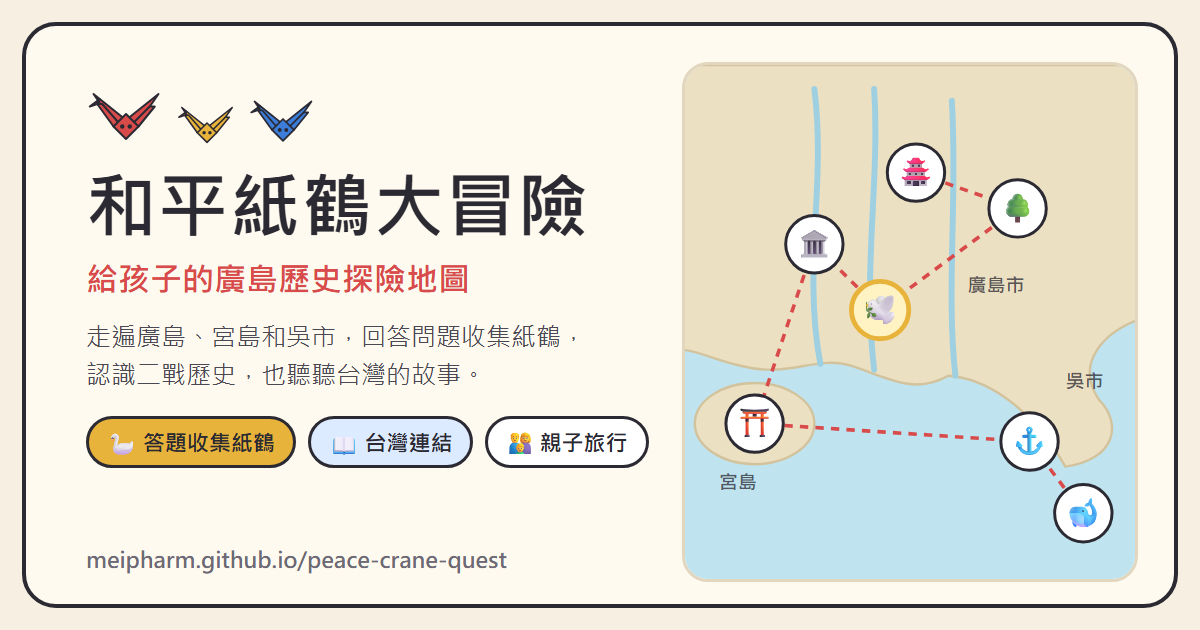
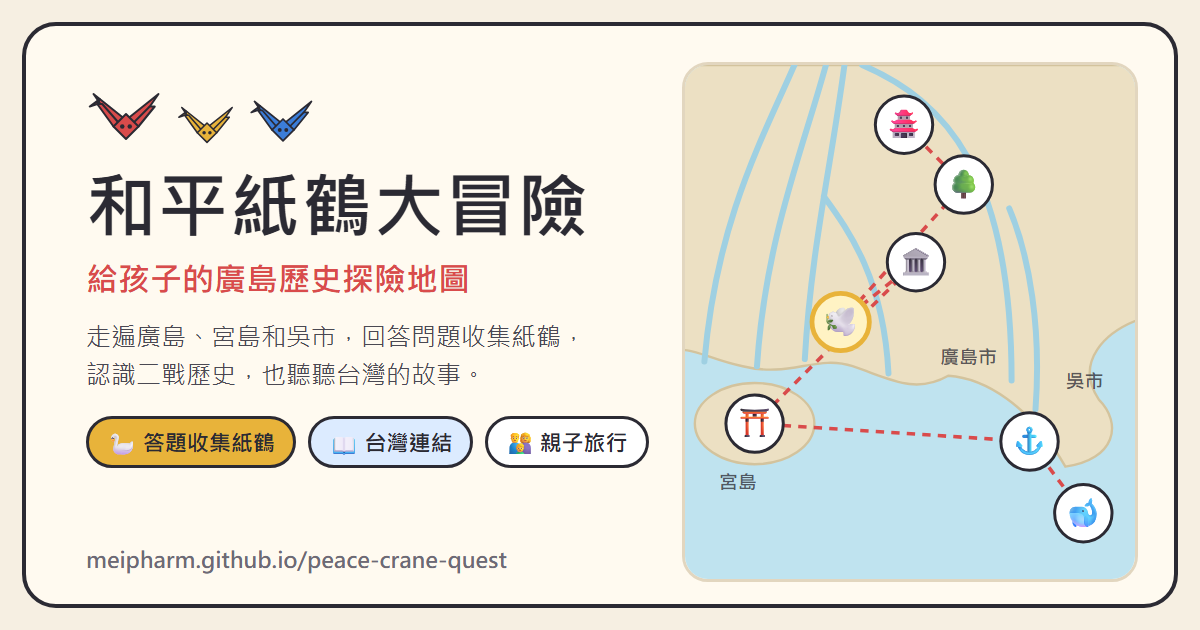
C-011 fix: 分享預覽圖地圖改為六條河，地點位置與網頁地圖一致

Changed region(s): [[0.5858, 0.0905, 0.8942, 0.6333]]

diff --git a/og/og.html b/og/og.html
@@ -58,23 +58,27 @@
     <rect width="400" height="430" fill="#bfe3ef"/>
     <path fill="#ece0c3" stroke="#d3c39d" stroke-width="2" d="M0,0 H400 V210 C360,222 338,250 358,280 C378,300 372,330 330,336 C300,284 262,262 232,260 C204,276 182,262 152,252 C122,242 100,262 60,252 C30,246 12,232 0,242 Z"/>
     <ellipse cx="70" cy="300" rx="50" ry="34" fill="#ece0c3" stroke="#d3c39d" stroke-width="2"/>
-    <path d="M120,20 C130,100 110,170 125,250" fill="none" stroke="#9fd0e2" stroke-width="5" stroke-linecap="round"/>
-    <path d="M170,20 C175,100 160,170 170,255" fill="none" stroke="#9fd0e2" stroke-width="5" stroke-linecap="round"/>
-    <path d="M235,30 C240,110 230,190 238,260" fill="none" stroke="#9fd0e2" stroke-width="5" stroke-linecap="round"/>
+    <!-- 廣島市中心六條河（示意） -->
+    <path d="M120,-40 C90,40 40,110 28,248" fill="none" stroke="#9fd0e2" stroke-width="5" stroke-linecap="round"/>
+    <path d="M140,-40 C120,50 80,130 72,252" fill="none" stroke="#9fd0e2" stroke-width="5" stroke-linecap="round"/>
+    <path d="M150,-40 C140,60 118,140 112,246" fill="none" stroke="#9fd0e2" stroke-width="5" stroke-linecap="round"/>
+    <path d="M128,110 C150,140 178,180 182,258" fill="none" stroke="#9fd0e2" stroke-width="5" stroke-linecap="round"/>
+    <path d="M160,0 C230,30 285,90 285,264" fill="none" stroke="#9fd0e2" stroke-width="5" stroke-linecap="round"/>
+    <path d="M283,120 C300,160 310,220 305,288" fill="none" stroke="#9fd0e2" stroke-width="5" stroke-linecap="round"/>
     <g stroke="#d94b4b" stroke-width="3" stroke-dasharray="7 6" fill="none">
-      <polyline points="205,90 290,120 175,205 120,150 70,300 300,315 345,375"/>
+      <polyline points="195,50 245,100 142,215 205,165 70,300 300,315 345,375"/>
     </g>
     <g font-size="24" text-anchor="middle">
-      <g transform="translate(205,90)"><circle r="24" fill="#fff" stroke="#2b2a33" stroke-width="2.5"/><text y="8">🏯</text></g>
-      <g transform="translate(290,120)"><circle r="24" fill="#fff" stroke="#2b2a33" stroke-width="2.5"/><text y="8">🌳</text></g>
-      <g transform="translate(120,150)"><circle r="24" fill="#fff" stroke="#2b2a33" stroke-width="2.5"/><text y="8">🏛</text></g>
-      <g transform="translate(175,205)"><circle r="24" fill="#fff3c4" stroke="#e8b33a" stroke-width="4"/><text y="8">🕊</text></g>
+      <g transform="translate(195,50)"><circle r="24" fill="#fff" stroke="#2b2a33" stroke-width="2.5"/><text y="8">🏯</text></g>
+      <g transform="translate(245,100)"><circle r="24" fill="#fff" stroke="#2b2a33" stroke-width="2.5"/><text y="8">🌳</text></g>
+      <g transform="translate(205,165)"><circle r="24" fill="#fff" stroke="#2b2a33" stroke-width="2.5"/><text y="8">🏛</text></g>
+      <g transform="translate(142,215)"><circle r="24" fill="#fff3c4" stroke="#e8b33a" stroke-width="4"/><text y="8">🕊</text></g>
       <g transform="translate(70,300)"><circle r="24" fill="#fff" stroke="#2b2a33" stroke-width="2.5"/><text y="8">⛩</text></g>
       <g transform="translate(300,315)"><circle r="24" fill="#fff" stroke="#2b2a33" stroke-width="2.5"/><text y="8">⚓</text></g>
       <g transform="translate(345,375)"><circle r="24" fill="#fff" stroke="#2b2a33" stroke-width="2.5"/><text y="8">🐋</text></g>
     </g>
     <g font-size="16" font-weight="700" fill="#2b2a33" opacity=".75">
-      <text x="248" y="190">廣島市</text><text x="40" y="355">宮島</text><text x="330" y="270">吳市</text>
+      <text x="225" y="250">廣島市</text><text x="40" y="355">宮島</text><text x="330" y="270">吳市</text>
     </g>
   </svg>
 
